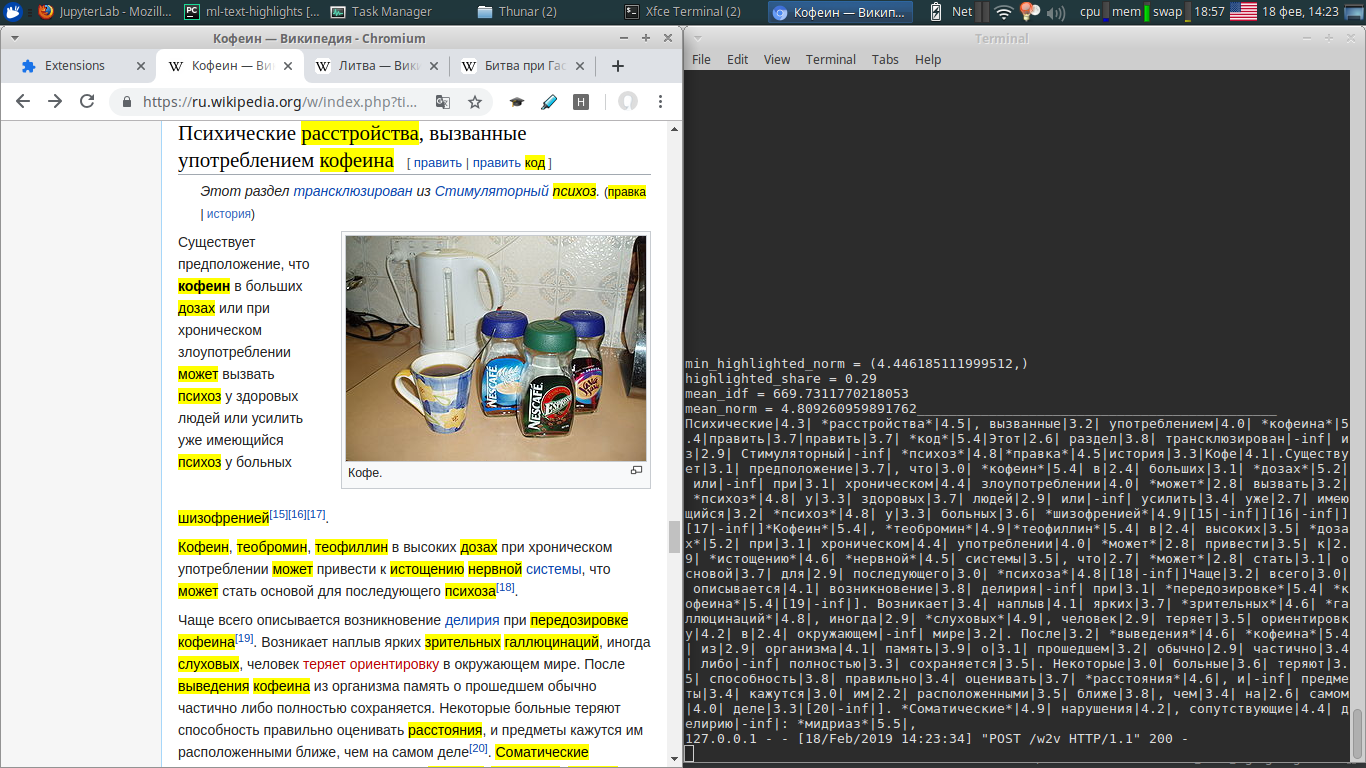
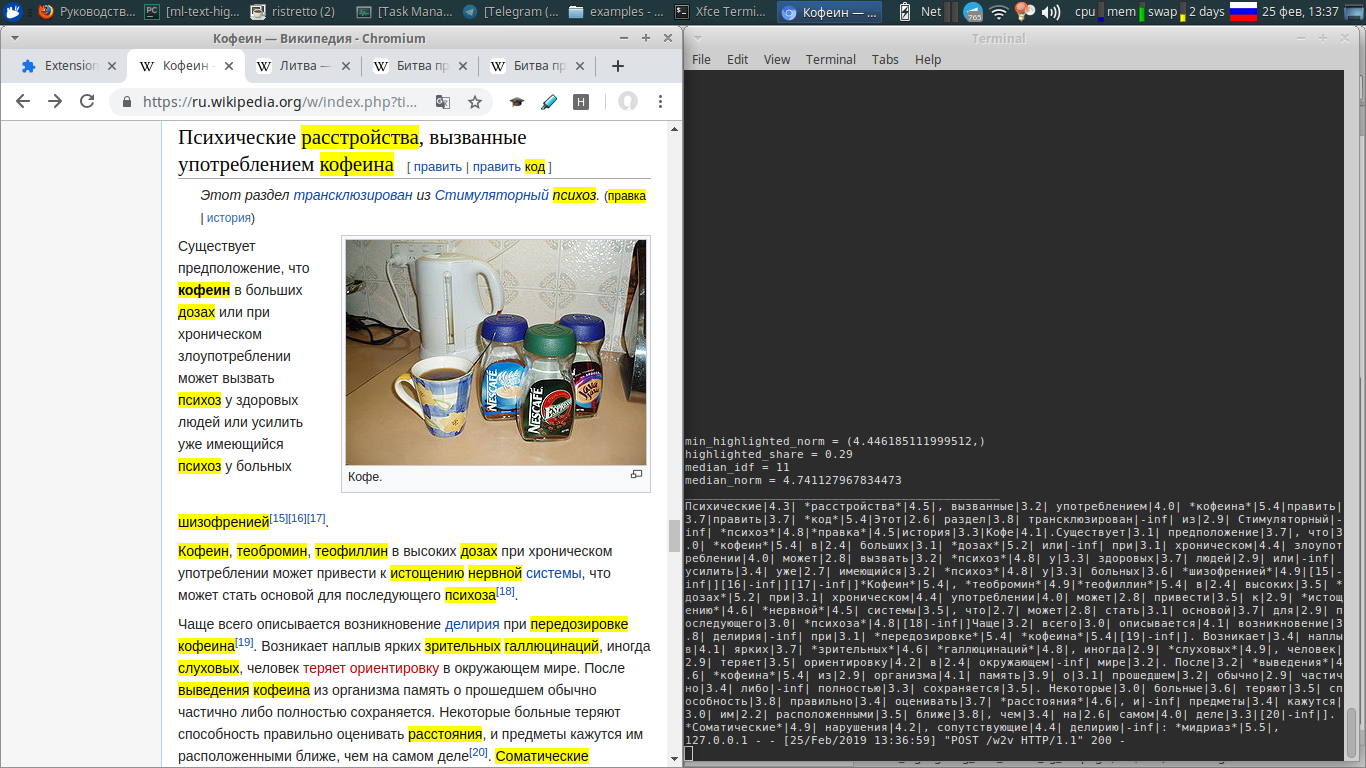
fix accidental highlighting

diff --git a/server/server.py b/server/server.py
@@ -25,12 +25,12 @@ PUNCTUATION = string.punctuation + ''.join([
 # NORMS_FILE, LEMMR = ('./norms_sg_base.json', 'pymorphy')
 # NORMS_FILE, LEMMR = ('./norms_cbow_base.json', 'pymorphy')
 # NORMS_FILE, LEMMR = ('./norms_glove_50k.json', 'pymorphy')
-# NORMS_FILE, LEMMR = ('./norms_sg_full.json', 'pymorphy')
+NORMS_FILE, LEMMR = ('./norms_sg_full.json', 'pymorphy')
 # NORMS_FILE, LEMMR = ('./norms_cbow_full.json', 'pymorphy')
 # NORMS_FILE, LEMMR = (
 #     'norms_ruwikiruscorpora-func_upos_skipgram_300_5_2019.json', 'mystem')
-NORMS_FILE, LEMMR = (
-    'norms_ruwikiruscorpora_upos_skipgram_300_2_2019.json', 'mystem')
+# NORMS_FILE, LEMMR = (
+#     'norms_ruwikiruscorpora_upos_skipgram_300_2_2019.json', 'mystem')
 # NORMS_FILE, LEMMR = ('norms_ruscorpora_upos_cbow_300_20_2019.json', 'mystem')
 # NORMS_FILE, LEMMR = ('norms_tenth.norm-sz500-w7-cb0-it5-min5.json', None)
 
@@ -150,7 +150,9 @@ def tokenize_lemmatize_input(inp, lem='pymorphy'):
 
 
 def important_words_to_spans(important_words, input,
-                             grouped_words, spaces_skipped=True):
+                             grouped_words, spaces_skipped=True,
+                             use_normalised=False, grouped_norm_words=None,
+                             important_norm_words=None):
     """
     :param important_words: flat set of important (not normalized) words
     :param input: server input in unified format
@@ -160,12 +162,16 @@ def important_words_to_spans(important_words, input,
     span is a tuple (begin_ind, end_ind) -- halfopen interval of a highlight
     """
     grouped_spans = []
-    for node, words in zip(input, grouped_words):
+    for i, (node, words) in enumerate(zip(input, grouped_words)):
         cur_pos = 0
         text = node['text']
         cur_spans = []
-        for word in words:
-            if word in important_words:
+        for j, word in enumerate(words):
+            if (
+                    (use_normalised
+                     and grouped_norm_words[i][j] in important_norm_words)
+                    or (not use_normalised and word in important_words)
+            ):
                 beg = text.find(word, cur_pos)
                 cur_pos = end = beg + len(word)
                 cur_spans.append((beg, end))
@@ -291,7 +297,7 @@ def highlight_with_w2v_norm():
                 vnorm = vector_norms.get(normalized_token, median_norm)
                 norms[normalized_token] = (
                     tf * idf * vnorm**(16) * 1_000_000 / doc_length,
-                    tf * idf * 1_000_000 / doc_length, vnorm
+                    tf * idf * 1_000_000 / doc_length, tf, 1/idf, vnorm
                 )
 
     vector_norms_sorted = sorted(norms.items(),
@@ -313,9 +319,20 @@ def highlight_with_w2v_norm():
 
     if not DEBUG_PRINT:
         return json.dumps(
-            important_words_to_spans(important_tokens, inp, tokens)
+            important_words_to_spans(
+                important_tokens, inp, tokens,
+                spaces_skipped=(LEMMR == 'pymorphy'),
+                use_normalised=True, grouped_norm_words=normalized_tokens,
+                important_norm_words=important_normalized_tokens)
         )
 
+    grouped_words = tokens
+    input = inp
+    important_words = important_tokens
+    spaces_skipped = (LEMMR == 'pymorphy')
+    use_normalised = True
+    grouped_norm_words = normalized_tokens
+    important_norm_words = important_normalized_tokens
     #
     min_norm = vector_norms_sorted[n_important - 1][1]
     hl_share = n_important / len(vector_norms_sorted)
@@ -341,7 +358,7 @@ def highlight_with_w2v_norm():
     delim = ' ' if LEMMR == 'pymorphy' else ''
     #
     grouped_spans = []
-    for node, words, normalized_words in zip(inp, tokens, normalized_tokens):
+    for i, (node, words) in enumerate(zip(input, grouped_words)):
         cur_pos = 0
         text = node['text']
         cur_spans = []
@@ -349,8 +366,12 @@ def highlight_with_w2v_norm():
         debug_text = []
         punkt_space = PUNCTUATION + string.whitespace
         #
-        for word, normalized in zip(words, normalized_words):
-            if word in important_tokens:
+        for j, word in enumerate(words):
+            if (
+                    (use_normalised
+                     and grouped_norm_words[i][j] in important_norm_words)
+                    or (not use_normalised and word in important_words)
+            ):
                 beg = text.find(word, cur_pos)
                 cur_pos = end = beg + len(word)
                 cur_spans.append((beg, end))
@@ -358,15 +379,20 @@ def highlight_with_w2v_norm():
                 highlighted = True
                 #
             else:
-                cur_pos += len(word)
+                # trying to compensate for spaces - 1 per word in avg
+                cur_pos += len(word) + int(spaces_skipped)
                 #
                 highlighted = False
                 #
             #
             mark = '*' if highlighted else ''
             no_norm = all(c in punkt_space for c in word)
-            norm = (f'|{",".join([format(el, ".1f") for el in norms.get(normalized, (float("-inf"),))])}|'
-                    if not no_norm else '')
+            info = ";".join(
+                [format(el, ".1f") for el in norms.get(
+                    grouped_norm_words[i][j], (float("-inf"),)
+                )]
+            )
+            norm = (f'|{info}|' if not no_norm else '')
             debug_text.append(f'{mark}{word}{mark}{norm}')
             #
         #
